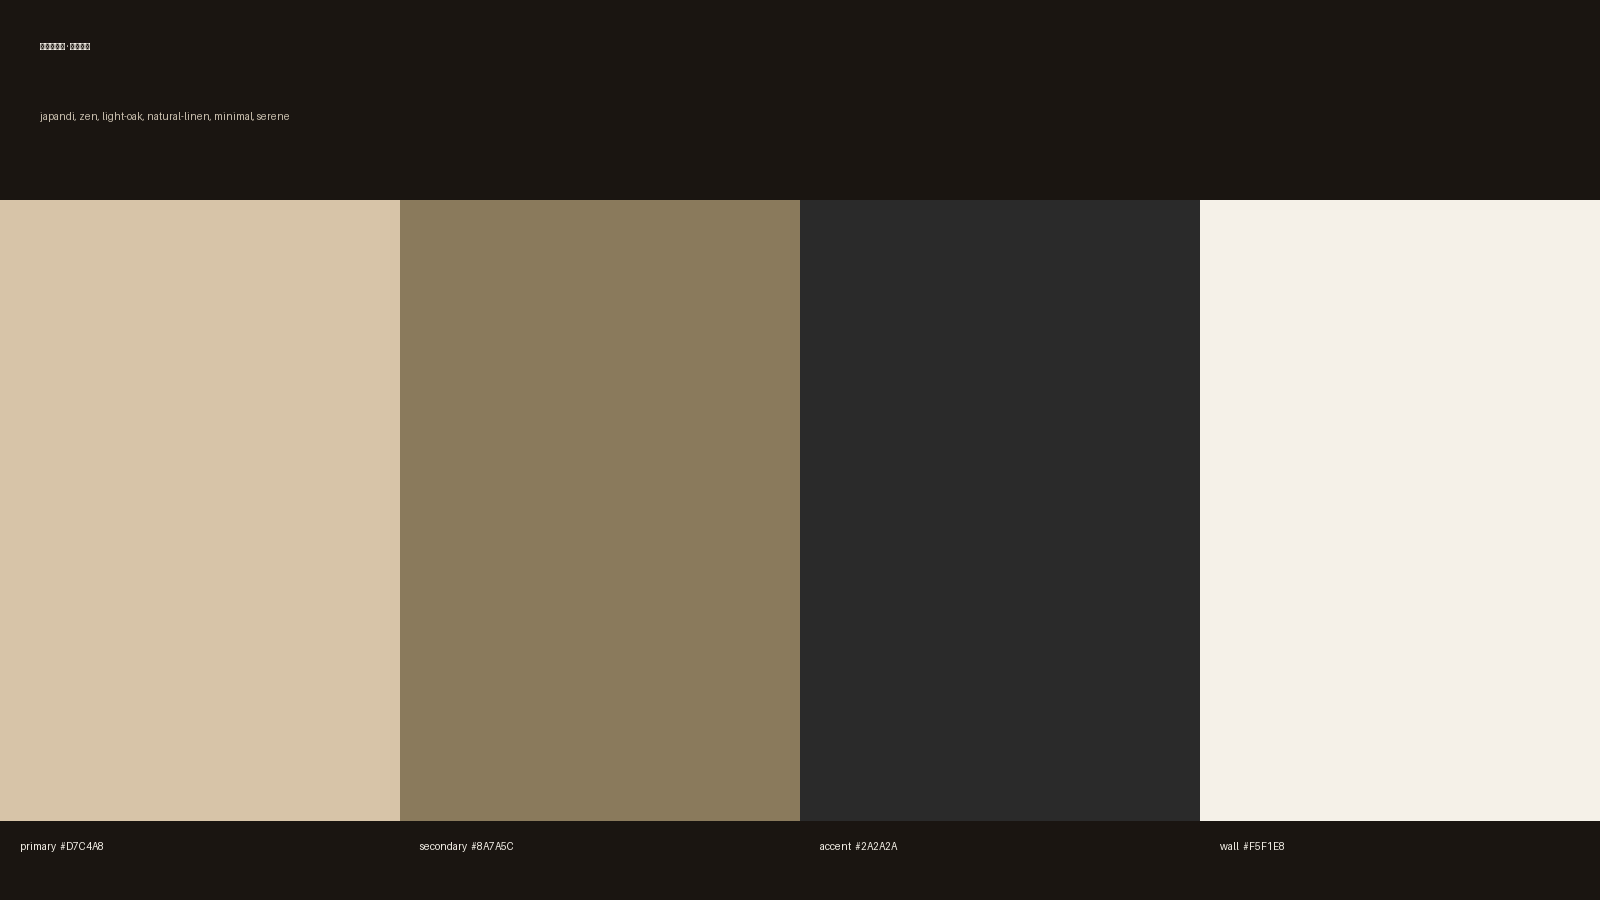
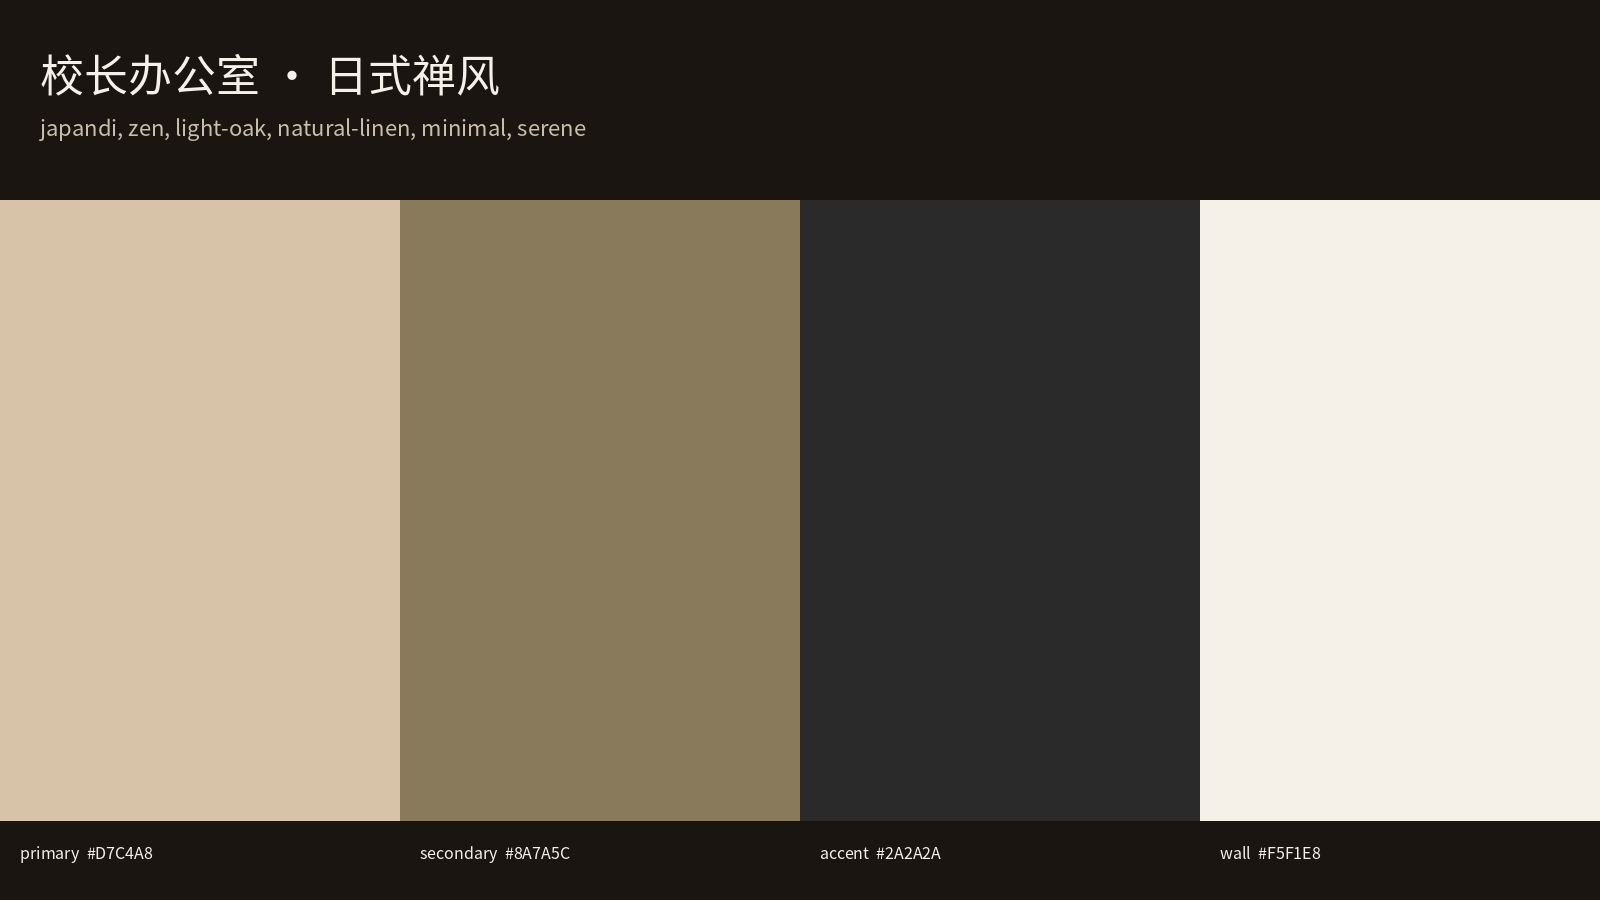
Phase 5.3.1 · 子智能体二轮体检指出的真 bug 修
🔴 Bug（上次"修复"无效 · 路径全错）：
- _get_cjk_font 的 fallback 路径全写 .ttc 但本机是 NotoSansCJKsc-Regular.otf
- 结果：PIL 掉到英文 bitmap 兜底 · moodboard.png 中文全是方块 □
- 修法：改用 fc-match 动态查真实存在的字体 · 兜底加 .otf 路径
- 验证：标题区 unique pixels 从 ~10（纯方块）→ 253（真字形）

🟡 Should-fix：
- case-study/thumbs [:6] 硬切 → 全部 renders（6→8 张）
- Marp stderr base64 乱码不再写进 TODO · 只过滤 error/chrome/fail 关键词
- CLAUDE.md 命令示例加 --mode light|full flag

Memory → Rule 迁移（用户指出违反 share-auto-memory 规则）：
- 删 feedback_arctura_brief_first / feedback_read_upstream_claude_md / arctura_session_recovery
- 新建 ~/.claude/rules/share-arctura-workflow.md（AppliesTo: claude · 每次注入）

diff --git a/_build/materialize_full_mvp.py b/_build/materialize_full_mvp.py
@@ -468,13 +468,21 @@ def _render_deck_marp(d):
     pptx = d / "decks" / "deck-client.pptx"
     pdf = d / "decks" / "deck-client.pdf"
     r1 = subprocess.run(["marp", str(md), "--pptx", "-o", str(pptx), "--allow-local-files"],
-                        capture_output=True, text=True, timeout=60)
+                        capture_output=True, timeout=60)
     r2 = subprocess.run(["marp", str(md), "--pdf", "-o", str(pdf), "--allow-local-files"],
-                        capture_output=True, text=True, timeout=60)
+                        capture_output=True, timeout=60)
     if pptx.exists() and pdf.exists():
         return {"ok": True}
-    err = ((r1.stderr or "") + "\n" + (r2.stderr or ""))[-400:]
-    return {"ok": False, "reason": f"marp 跑但未产文件 · stderr: {err}"}
+    # 过滤 stderr · 只留含 ASCII 错误关键词的行 · 丢 base64 二进制 leak（子智能体建议）
+    def _filter_err(raw):
+        if not raw: return ""
+        text = raw.decode("utf-8", errors="replace")
+        keep = [ln for ln in text.splitlines() if any(k in ln.lower() for k in ["error", "fail", "missing", "cannot", "chrome", "puppeteer", "enoent"])]
+        return "\n".join(keep[-5:]) if keep else "(stderr 全是二进制 · 可能 chrome 路径缺)"
+    err = (_filter_err(r1.stderr) + "\n" + _filter_err(r2.stderr)).strip()[-300:]
+    pptx_ok = "pptx ✓" if pptx.exists() else "pptx ✗"
+    pdf_ok = "pdf ✓" if pdf.exists() else "pdf ✗"
+    return {"ok": False, "reason": f"marp 跑但产物不全（{pptx_ok} / {pdf_ok}） · err: {err}"}
 
 
 def _append_todo(d, title, lines):
@@ -488,19 +496,28 @@ def _append_todo(d, title, lines):
 
 
 def _get_cjk_font(size):
-    """PIL 中文字体回退 · 修 2026-04-22 子智能体审查指出的方块字问题"""
+    """PIL 中文字体 · fc-match 动态查（避免硬编码路径过时 · 修 子智能体审查 B1）"""
     from PIL import ImageFont
-    import os
+    # 1. 用 fc-match 动态查系统里真实存在的 CJK 字体
+    for query in ["Noto Sans CJK SC:style=Regular", "Noto Sans CJK TC:style=Regular",
+                  "WenQuanYi Zen Hei", "Source Han Sans", "sans-serif:lang=zh"]:
+        try:
+            out = subprocess.check_output(["fc-match", "-f", "%{file}", query],
+                                           stderr=subprocess.DEVNULL, timeout=3).decode().strip()
+            if out and Path(out).exists() and any(out.endswith(ext) for ext in [".ttc", ".otf", ".ttf"]):
+                return ImageFont.truetype(out, size)
+        except Exception:
+            continue
+    # 2. 硬编码 fallback（最新 Fedora/CentOS 路径 · 子智能体指出本机 .otf 不是 .ttc）
     paths = [
-        "/usr/share/fonts/noto-cjk/NotoSansCJK-Regular.ttc",
-        "/usr/share/fonts/google-noto-cjk/NotoSansCJK-Regular.ttc",
-        "/usr/share/fonts/wqy-zenhei/wqy-zenhei.ttc",
-        "/usr/share/fonts/wqy-microhei/wqy-microhei.ttc",
-        "/usr/share/fonts/truetype/wqy/wqy-zenhei.ttc",
+        "/usr/share/fonts/google-noto-cjk/NotoSansCJKsc-Regular.otf",
+        "/usr/share/fonts/google-noto-cjk/NotoSansCJKtc-Regular.otf",
         "/usr/share/fonts/opentype/noto/NotoSansCJK-Regular.ttc",
+        "/usr/share/fonts/noto-cjk/NotoSansCJK-Regular.ttc",
+        "/usr/share/fonts/wqy-zenhei/wqy-zenhei.ttc",
     ]
     for fp in paths:
-        if os.path.exists(fp):
+        if Path(fp).exists():
             try:
                 return ImageFont.truetype(fp, size)
             except Exception:
@@ -517,7 +534,7 @@ def _make_case_study_thumbs(d):
     renders_dir = d / "renders"
     thumbs_dir = d / "case-study" / "thumbs"
     thumbs_dir.mkdir(parents=True, exist_ok=True)
-    pngs = sorted(renders_dir.glob("*.png"))[:6]
+    pngs = sorted(renders_dir.glob("*.png"))
     if not pngs:
         return False
     for p in pngs:
